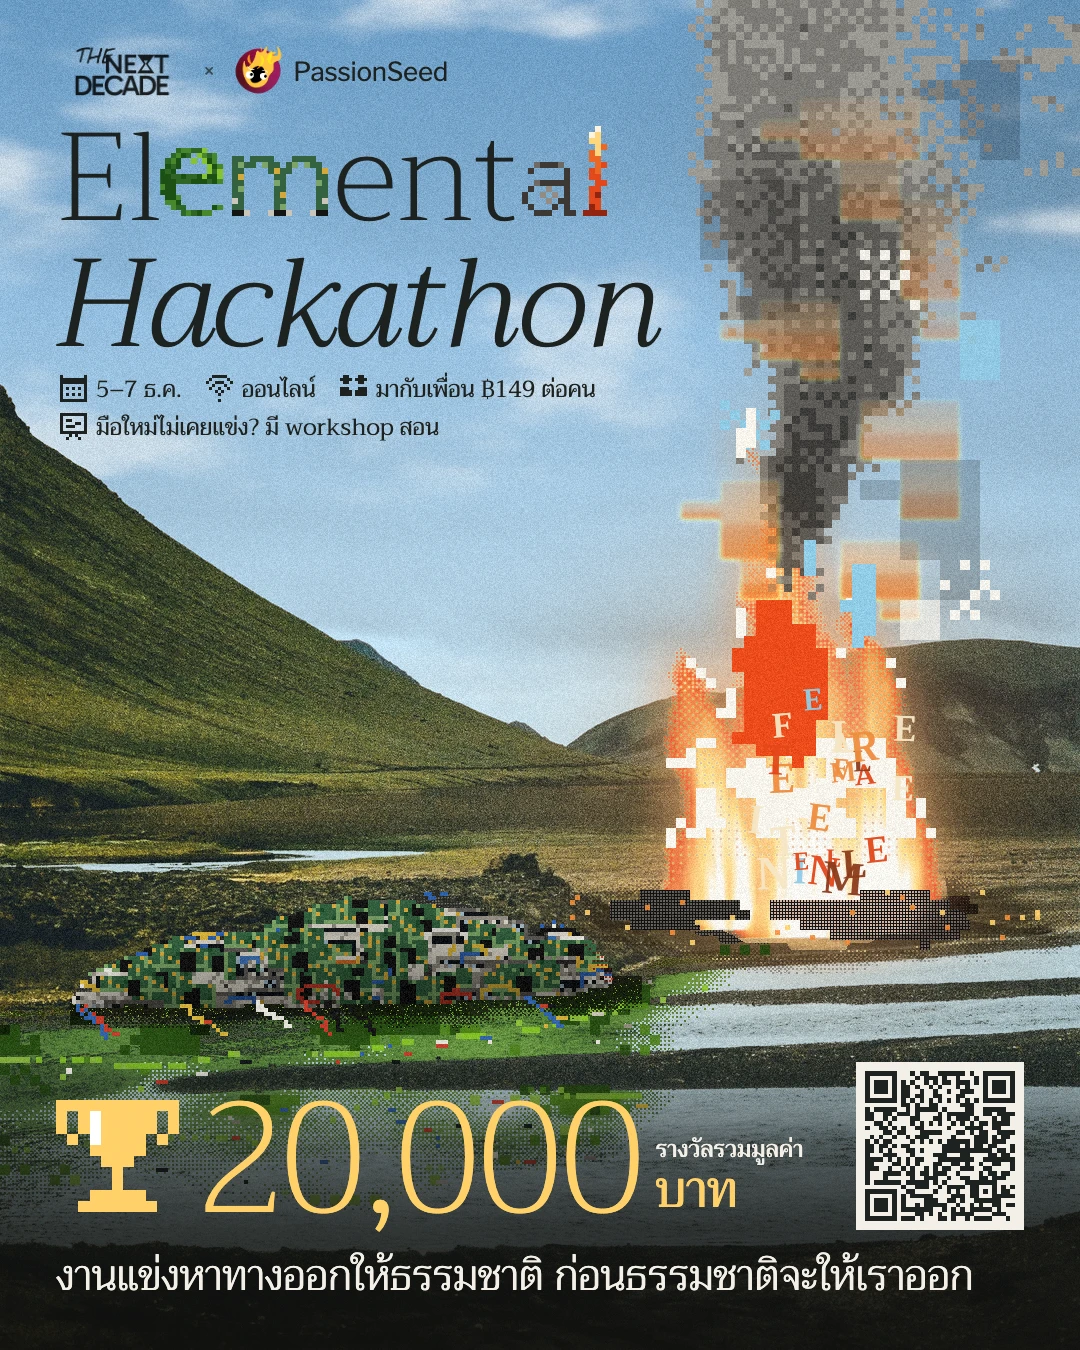
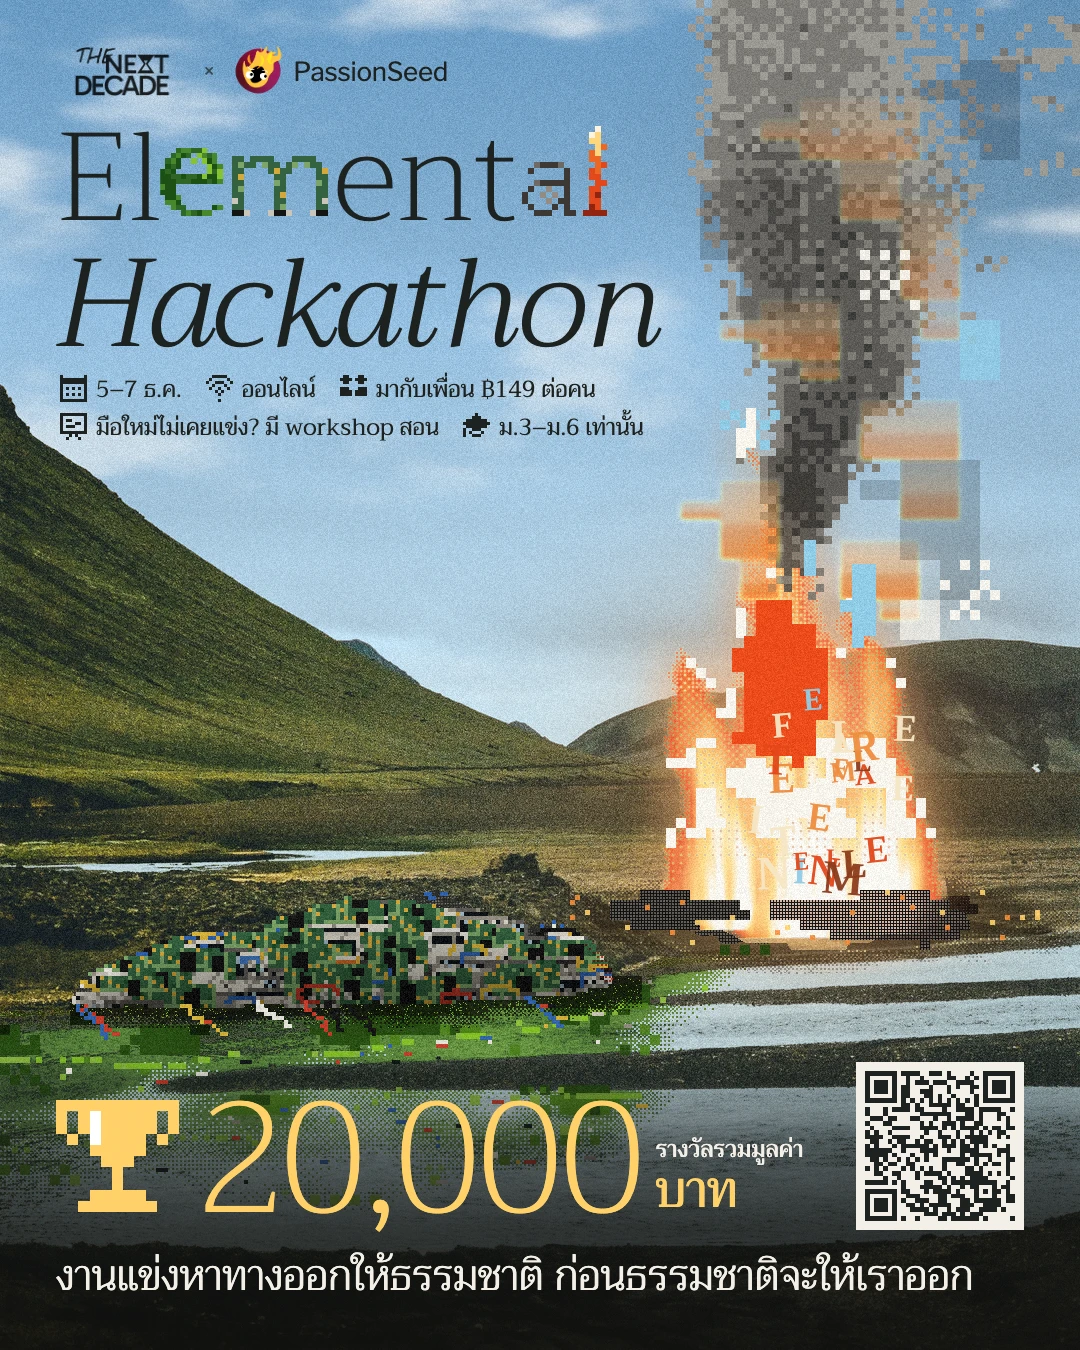
Elemental: M.3 to M.6 can join, and the poster says so
Angpao, 2026-11-24: the key poster's facts row gets a tag with a
graduation cap, ม.3–ม.6 เท่านั้น, and M.3 is added to who can join
(it was M.4 to M.6). Slide 2, the sponsor deck and the CSII deck follow.
The exported sheets are re-rendered; their QR code now holds the
permanent link, /hackathon/elemental?src=poster.

Changed region(s): [[0.7944, 0.7778, 0.9472, 0.9022], [0.4278, 0.3111, 0.5806, 0.3422]]

diff --git a/components/hackathon/poster/elemental/ElementalKeyPoster.tsx b/components/hackathon/poster/elemental/ElementalKeyPoster.tsx
@@ -291,6 +291,8 @@ const ICON = {
   prize: ["#########", "#.#####.#", ".#.###.#.", "...###...", "....#....", "....#....", "..#####..", ".#######.", "........."],
   friends: [".##...##.", "####.####", ".##...##.", ".........", "###...###", "####.####", "####.####", ".........", "........."],
   workshop: ["#########", "#.......#", "#.##....#", "#....##.#", "#.###...#", "#.......#", "#########", "...#.#...", "..#...#.."],
+  /** A graduation cap with its tassel: who the hackathon is for. */
+  school: ["....#....", "...###...", ".#######.", "#########", ".#######.", "#..###...", "#.#...#..", "#..###...", "........."],
 } as const;
 
 /** One fact in the bottom row: an icon and a few words, all the same size. */
@@ -404,6 +406,8 @@ function RegisterQrArt({ cell, fire = false, label = true }: { cell: number; fir
 const LINE = ["งานแข่งหาทางออกให้ธรรมชาติ", "ก่อนธรรมชาติจะให้เราออก"] as const;
 /** A question, then its answer (Angpao, 2026-11-23: "add ? to มือใหม่ไม่เคยแข่ง"). */
 const BEGINNER = ["มือใหม่ไม่เคยแข่ง?", "มี workshop สอน"] as const;
+/** Who it is for, as a tag in the facts row (Angpao, 2026-11-24: "add tag for มัธยมเท่านั้น", then "m3-m6 เท่านั้น"). */
+const WHO = `${ELEMENTAL.gradesTh} เท่านั้น`;
 
 export type BottomDesign = "stack" | "badge" | "number" | "scan" | "table";
 
@@ -593,7 +597,7 @@ function BottomBlock({ design, label = "tag", rule = true, side = "facts", troph
  * trophy, a plain sign-up QR code at the bottom right, and the line under
  * them. The other values are the layouts tried on the way there.
  */
-export function ElementalKeyPoster({ id = "elemental-key", sky = "grey", glyphs = true, bottom = "number", label = "beside", rule = false, qr = "bottom", facts = "top", qrStyle = "art", trophy = "solid", prizeWeight = 200 }: { id?: string; sky?: keyof typeof PLATES; glyphs?: boolean; bottom?: BottomDesign; label?: PrizeLabel; rule?: boolean; qr?: false | "left" | "right" | "bottom"; facts?: "bottom" | "top"; trophy?: TrophyDesign; prizeWeight?: number; qrStyle?: "art" | "plain" | "glass" | "scan" | "fire" }) {
+export function ElementalKeyPoster({ id = "elemental-key", sky = "grey", glyphs = true, bottom = "number", label = "beside", rule = false, qr = "bottom", facts = "top", qrStyle = "art", trophy = "solid", prizeWeight = 200, who = WHO }: { id?: string; who?: string; sky?: keyof typeof PLATES; glyphs?: boolean; bottom?: BottomDesign; label?: PrizeLabel; rule?: boolean; qr?: false | "left" | "right" | "bottom"; facts?: "bottom" | "top"; trophy?: TrophyDesign; prizeWeight?: number; qrStyle?: "art" | "plain" | "glass" | "scan" | "fire" }) {
   return (
     <div id={id} className={`${trirong.variable} relative overflow-hidden`} style={{ width: W, height: H, backgroundColor: "#2a2b26" }}>
       {/* eslint-disable-next-line @next/next/no-img-element */}
@@ -722,6 +726,7 @@ export function ElementalKeyPoster({ id = "elemental-key", sky = "grey", glyphs 
             <Fact icon="online" color={EL.ink}>ออนไลน์</Fact>
             <Fact icon="friends" color={EL.ink}>{`มากับเพื่อน ฿${ELEMENTAL.groupPriceBaht} ต่อคน`}</Fact>
             <Fact icon="workshop" color={EL.ink}>{`${BEGINNER[0]} ${BEGINNER[1]}`}</Fact>
+            <Fact icon="school" color={EL.ink}>{who}</Fact>
           </div>
         ) : null}
       </div>

diff --git a/components/hackathon/elemental/csii/CsiiDeck.tsx b/components/hackathon/elemental/csii/CsiiDeck.tsx
@@ -16,7 +16,7 @@ import { Body, DARK, H2, LINE_DARK, LINE_LIGHT, PRINT_CSS, Row, Section, SKY, St
  * Source: passionseed/company-brain on main, hackathon-csii-proposal.md,
  * content confirmed by Big on 2026-11-22, and the decisions behind it in
  * decisions/log.md (PassionSeed pays CSII's extra staff charge for opening
- * BAScii on 5–7 December and provides the food; M.4 to M.6; onsite and online).
+ * BAScii on 5–7 December and provides the food; M.3 to M.6; onsite and online).
  * PassionSeed's past work: the same sources as the sponsor deck. Where the
  * proposal says "to agree with CSII", so does this deck: nothing is filled in
  * that nobody has told us.
@@ -181,7 +181,7 @@ export function CsiiDeck() {
               [
                 ["When", "5–7 Dec 2026", "Long weekend"],
                 ["Where", "BAScii", "+ online on Discord"],
-                ["Who", `350+ students`, "M.4 to M.6"],
+                ["Who", `350+ students`, "M.3 to M.6"],
                 ["Cost to CSII", "฿0", "We pay staff and food"],
               ] as const
             ).map(([label, big, small]) => (
@@ -295,7 +295,7 @@ export function CsiiDeck() {
           <div className="grid grid-cols-2 gap-x-8 gap-y-6">
             <Stat big="350+" label="participants (target)" />
             <Stat big="800" label="joined the 1st edition of The Next Decade (2026)" />
-            <Stat big={`${ELEMENTAL.teamMin}–${ELEMENTAL.teamMax}`} label="people per team, M.4 to M.6, from across Thailand" />
+            <Stat big={`${ELEMENTAL.teamMin}–${ELEMENTAL.teamMax}`} label="people per team, M.3 to M.6, from across Thailand" />
             <Stat big={baht(ELEMENTAL.prizeTotalBaht)} label="in prizes, cash and Claude credit" />
           </div>
           <div style={{ fontFamily: EL_FONT.display }}>

diff --git a/components/hackathon/poster/elemental/facts.ts b/components/hackathon/poster/elemental/facts.ts
@@ -14,8 +14,8 @@ import { formatThaiDate } from "@/lib/content/shift-cohort";
  *   replaces ธาตุที่ 5 and อีเธอร์.
  * - Prize total: told by Angpao, 2026-11-19. The three prizes: Angpao,
  *   2026-11-21 (company-brain numbers.md).
- * - Who can join: M.4 to M.6, from anywhere in Thailand (Big, 2026-11-22;
- *   company-brain decisions/log.md).
+ * - Who can join: M.3 to M.6, from anywhere in Thailand (Angpao, 2026-11-24;
+ *   it replaces M.4 to M.6, Big, 2026-11-22; company-brain decisions/log.md).
  * - Online, on Discord; groups of up to 5 (Bunyasit, 2026-11-20).
  * - Sign-up closes Fri 4 Dec 2026 (Angpao, 2026-11-23; it replaces Thu 3 Dec
  *   in hackathon-ops registration.md); a group is 2 or more people (Big's
@@ -40,7 +40,7 @@ export const ELEMENTAL = {
     { place: 3, cashBaht: 0, creditBaht: 3000 },
   ],
   /** Who can join: school years, from anywhere in Thailand. */
-  gradesTh: "ม.4–ม.6",
+  gradesTh: "ม.3–ม.6",
   theme: "Environmental negligence",
   /** The permanent link. /hackathon redirects here while Elemental is current. */
   url: "passionseed.org/hackathon/elemental",

diff --git a/components/hackathon/elemental/sponsor/SponsorDeck.tsx b/components/hackathon/elemental/sponsor/SponsorDeck.tsx
@@ -399,7 +399,7 @@ export function SponsorDeck() {
             {thaiDayRange()} {YEAR_TH} ({ELEMENTAL.days} วัน ช่วงวันหยุดยาว)
           </Row>
           <Row light label="ผู้เข้าร่วม">
-            นักเรียน ม.4–ม.6 ทั่วประเทศ
+            นักเรียน ม.3–ม.6 ทั่วประเทศ
             <Draft />
           </Row>
           <Row light label="รูปแบบ">
